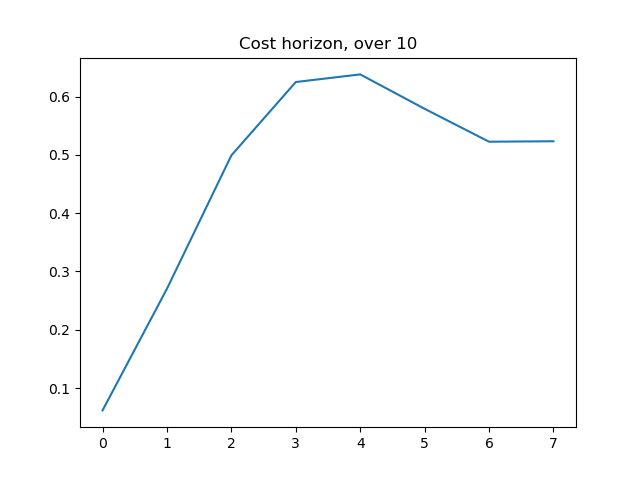
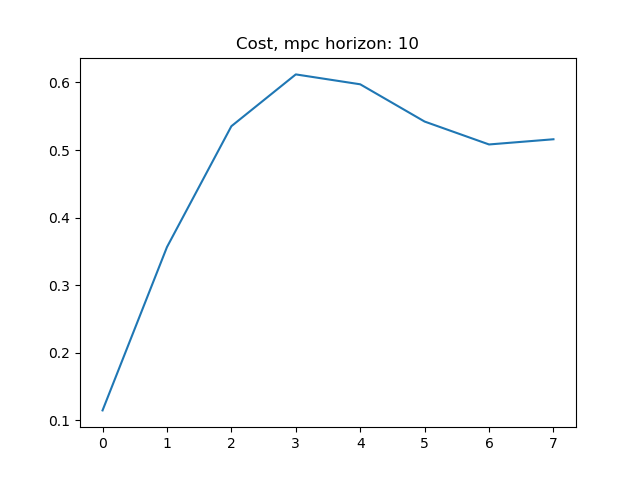
updates to mpc code, still a few issues

diff --git a/utils/model_predictive_controller.py b/utils/model_predictive_controller.py
@@ -27,6 +27,7 @@ class MPC:
 
         self.action_dist = np.ones(self.action_size) * (1 / self.action_size)
         self.best_action_seq = np.zeros(self.horizon)
+        self.best_action_seq_cost = np.Infinity
     
     def act(self, state):
         """ Returns best action under given state
@@ -42,18 +43,21 @@ class MPC:
             if i == 0:
                 actions = self.sample_actions()
             else:
-                actions = self.sample_actions(use_action_dist=True)
+                actions = self.sample_actions(use_action_dist=False)
             
             # actions should already be valid
 
             predictions = self.predict(state, actions)
             costs = np.array([self.cost(pred) for pred in predictions])
 
-            best_seq = actions[np.argmax(costs)]
+            best_seq_indx = np.argmin(costs)
+
+            best_seq = actions[best_seq_indx]
             self.update_action_dist(best_seq)
 
-            if np.argmax(costs) > self.cost(self.model(state, self.best_action_seq)):
+            if costs[best_seq_indx] < self.best_action_seq_cost:
                 self.best_action_seq = best_seq
+                self.best_action_seq_cost = costs[best_seq_indx]
         
         return self.best_action_seq[0]
 
@@ -92,16 +96,24 @@ class MPC:
 
     def update_action_dist(self, action_seq):
         """ Updates the running distribution of actions to sample"""
-        _, counts_elements = np.unique(action_seq, return_counts=True)
-        self.action_dist = counts_elements / counts_elements.sum()
+        unique, counts_elements = np.unique(action_seq, return_counts=True)
 
-def run_mpc(transition_model, cost_func, config, env, video=False):
-    max_iters = 100
+        new_action_dist = counts_elements
+        if len(unique) < self.action_size:
+            new_action_dist = np.zeros(self.action_size)
+            for i, u in enumerate(unique):
+                new_action_dist[u] += counts_elements[i]
+        self.action_dist = new_action_dist / counts_elements.sum()
+
+def run_mpc(transition_model, cost_func, config, env, seed_state=None, video=False):
+    max_iters = 10
     controller = MPC(transition_model, cost_func, config)
 
     states, costs = [], []
 
     env.reset()
+    if seed_state:
+        env.set_state(seed_state)
     state = env._get_state()
 
     states.append(state)

diff --git a/examples/mpc_test.py b/examples/mpc_test.py
@@ -1,15 +1,20 @@
 import numpy as np
 import gym
+import matplotlib.pyplot as plt
 
-from utils.model_predictive_controller import MPC
+from utils.model_predictive_controller import run_mpc
 from utils.acrobot_env import AcrobotEnv
 
 
 env = AcrobotEnv()
 
-def cost(states):
+def cost_up(states):
     """ Cost function to get acrobot upright"""
     return np.sum(((-np.cos(states[0, :]) - np.cos(states[1, :] + states[0, :])) - 1) ** 2)
+
+def cost_down(states):
+    """ Cost function to get acrobot straight down"""
+    return np.linalg.norm(states) 
 
 def predict_horizon(state, action_sequence):
     """ Takes the env model and runs it on several actions"""
@@ -18,39 +23,23 @@ def predict_horizon(state, action_sequence):
 
     prediction[:, 0] = env.model(state, action_sequence[0])
     for i, action in enumerate(action_sequence[1:]):
-        prediction[:, i] = env.model(state, action)
+        ns = env.model(state, action)
+        prediction[:, i + 1] = env.model(state, action)
+
+        state = ns
     
     return prediction
 
 config = {
     "action_size": env.action_space.n,
     "state_size": 4,
-    "horizon": 10,
-    "iters": 100,
+    "horizon": 1,
+    "iters": 10,
     "num_candidates": 10
 }
 
-# Setup the controller
-controller = MPC(predict_horizon, cost, config)
+states, costs = run_mpc(predict_horizon, cost_down, config, env, seed_state=[0, 0, 0, 0])
 
-
-# Run until cost change is low or time out
-env.reset()
-state = env._get_state()
-done = False
-costs = [np.Infinity]
-iters = 0
-while True:
-    action = controller.act(state)
-    env.step(action)
-    ns = env._get_state()
-    
-    costs.append(cost(ns.reshape(4, 1)))
-
-    state = ns
-    if abs(costs[-1] - costs[-2]) < 0.1 or iters > 100:
-        break
-    iters += 1
-    
-
-print(costs)
+plt.plot(costs)
+plt.title("Test mpc go to origin")
+plt.savefig("plots/mpc_test_origin.png")

diff --git a/run_node_agent.py b/run_node_agent.py
@@ -43,7 +43,7 @@ else:
 
 test_loss = 0
 with torch.no_grad():
-    test_loss = test(model, env, video=True)
+    test_loss = test(model, env)
 print(f"Test loss: {test_loss}")
 
 # Run mpc with learned model
@@ -51,11 +51,11 @@ mpc_config = {
     "action_size": env.action_space.n,
     "state_size": 4,
     "horizon": 10, 
-    "iters": 10,
-    "num_candidates": 10,
+    "iters": 2,
+    "num_candidates": 4,
 }
 
-states, costs = run_mpc(model.predict_horizon, lambda s: np.linalg.norm(s), mpc_config, env, video=True)
+states, costs = run_mpc(model.predict_horizon, lambda s: np.linalg.norm(s), mpc_config, env)
 
 plt.figure()
 plt.title(f"Cost, mpc horizon: {mpc_config['horizon']}")

diff --git a/agents/node_train.py b/agents/node_train.py
@@ -1,4 +1,5 @@
 from utils.plot_utils import generate_video
+
 import numpy as np
 import matplotlib.pyplot as plt
 from tqdm import tqdm
@@ -129,4 +130,3 @@ def test(model_nn, env, video=False):
         env.close()
     
     return (state_true - state_nn).pow(2) / state_true.shape[0]
-

diff --git a/utils/acrobot_env.py b/utils/acrobot_env.py
@@ -1,6 +1,7 @@
 import numpy as np
 from numpy import sin, cos, pi
 import torch
+import scipy.integrate
 
 from gym import core, spaces
 from gym.utils import seeding
